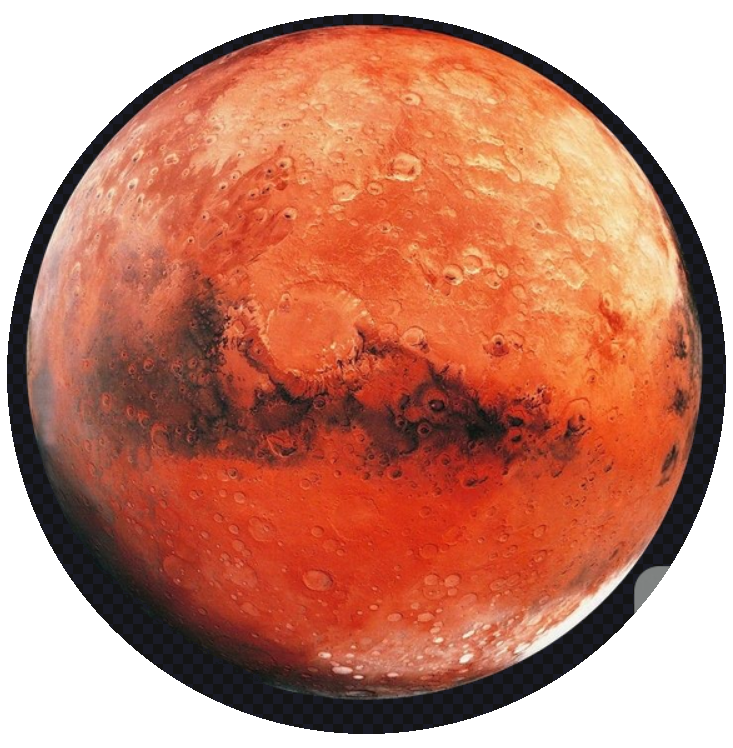
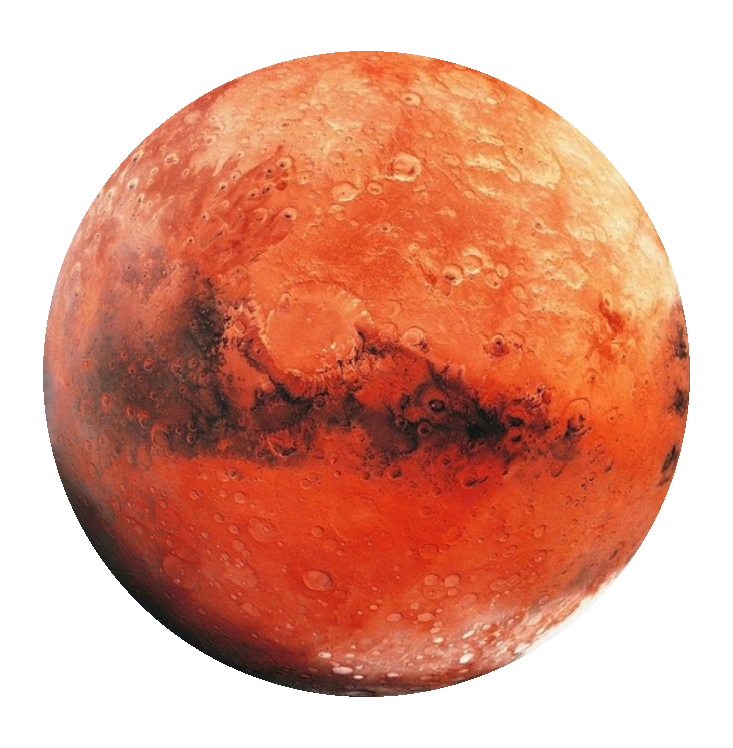
Recrop planet 3 to eliminate UI artifact, pause background animation on pause, add 3-second resume countdown

Changed region(s): [[0.0, 0.0, 0.9905, 0.984]]

diff --git a/dist/js/game.js b/dist/js/game.js
@@ -975,6 +975,7 @@ class Game {
     }
 
     handlePauseTap(vx, vy) {
+        if (this.resumeCountdown > 0) return;
         const w = this.w, h = this.h;
         const panelW = w * 0.38;
         const btnW = panelW * 0.82;
@@ -989,7 +990,7 @@ class Game {
                 this.audio.init(); this.audio.playPauseSound();
                 if (i === 0) {
                     // Resume
-                    this.state = GameState.Playing;
+                    this.resumeCountdown = 3.0;
                 } else if (i === 1) {
                     // Restart
                     this.lives = 3 + (this.extraLives || 0);
@@ -1262,9 +1263,10 @@ class Game {
                 this.pauseSelectedIndex = 0;
             }
         } else if (this.state === GameState.Paused) {
+            if (this.resumeCountdown > 0) return;
             if (code === 'Escape') {
                 this.audio.init(); this.audio.playPauseSound();
-                this.state = GameState.Playing;
+                this.resumeCountdown = 3.0;
             }
             if (code === 'ArrowUp') {
                 this.pauseSelectedIndex = (this.pauseSelectedIndex - 1 + 3) % 3;
@@ -1277,7 +1279,7 @@ class Game {
             if (code === 'Enter' || code === 'Space') {
                 this.audio.init(); this.audio.playPauseSound();
                 if (this.pauseSelectedIndex === 0) {
-                    this.state = GameState.Playing;
+                    this.resumeCountdown = 3.0;
                 } else if (this.pauseSelectedIndex === 1) {
                     this.resetBallAndPaddle(true);
                     this.initBricks();
@@ -1349,9 +1351,19 @@ class Game {
         this.updateRain(dt);
         this.updateParticles(dt);
         this.updatePowerups(dt);
-        this.updateStars(dt);
-        if (this.state === GameState.Playing || this.state === GameState.Paused || this.state === GameState.StageClear || this.state === GameState.GameOver) {
+        if (this.state !== GameState.Paused) {
+            this.updateStars(dt);
+        }
+        if (this.state === GameState.Playing || this.state === GameState.StageClear || this.state === GameState.GameOver) {
             this.updatePlanets(dt);
+        }
+        
+        if (this.state === GameState.Paused && this.resumeCountdown > 0) {
+            this.resumeCountdown -= dt;
+            if (this.resumeCountdown <= 0) {
+                this.state = GameState.Playing;
+                this.resumeCountdown = 0;
+            }
         }
         this.updateFloatingTexts(dt);
         this.updateConfetti(dt);
@@ -4034,6 +4046,19 @@ class Game {
     // ─── Pause Menu ──────────────────────────────────
 
     drawPauseMenu(ctx, w, h) {
+        if (this.resumeCountdown > 0) {
+            ctx.fillStyle = rgba(0, 0, 0, 150);
+            ctx.fillRect(0, 0, w, h);
+            
+            ctx.font = '60px PixelFont, monospace';
+            ctx.fillStyle = 'white';
+            ctx.textAlign = 'center';
+            ctx.textBaseline = 'middle';
+            const count = Math.ceil(this.resumeCountdown);
+            ctx.fillText(count.toString(), w / 2, h / 2);
+            return;
+        }
+
         // Dim background
         ctx.fillStyle = rgba(4, 6, 14, 195);
         ctx.fillRect(0, 0, w, h);

diff --git a/js/game.js b/js/game.js
@@ -975,6 +975,7 @@ class Game {
     }
 
     handlePauseTap(vx, vy) {
+        if (this.resumeCountdown > 0) return;
         const w = this.w, h = this.h;
         const panelW = w * 0.38;
         const btnW = panelW * 0.82;
@@ -989,7 +990,7 @@ class Game {
                 this.audio.init(); this.audio.playPauseSound();
                 if (i === 0) {
                     // Resume
-                    this.state = GameState.Playing;
+                    this.resumeCountdown = 3.0;
                 } else if (i === 1) {
                     // Restart
                     this.lives = 3 + (this.extraLives || 0);
@@ -1262,9 +1263,10 @@ class Game {
                 this.pauseSelectedIndex = 0;
             }
         } else if (this.state === GameState.Paused) {
+            if (this.resumeCountdown > 0) return;
             if (code === 'Escape') {
                 this.audio.init(); this.audio.playPauseSound();
-                this.state = GameState.Playing;
+                this.resumeCountdown = 3.0;
             }
             if (code === 'ArrowUp') {
                 this.pauseSelectedIndex = (this.pauseSelectedIndex - 1 + 3) % 3;
@@ -1277,7 +1279,7 @@ class Game {
             if (code === 'Enter' || code === 'Space') {
                 this.audio.init(); this.audio.playPauseSound();
                 if (this.pauseSelectedIndex === 0) {
-                    this.state = GameState.Playing;
+                    this.resumeCountdown = 3.0;
                 } else if (this.pauseSelectedIndex === 1) {
                     this.resetBallAndPaddle(true);
                     this.initBricks();
@@ -1349,9 +1351,19 @@ class Game {
         this.updateRain(dt);
         this.updateParticles(dt);
         this.updatePowerups(dt);
-        this.updateStars(dt);
-        if (this.state === GameState.Playing || this.state === GameState.Paused || this.state === GameState.StageClear || this.state === GameState.GameOver) {
+        if (this.state !== GameState.Paused) {
+            this.updateStars(dt);
+        }
+        if (this.state === GameState.Playing || this.state === GameState.StageClear || this.state === GameState.GameOver) {
             this.updatePlanets(dt);
+        }
+        
+        if (this.state === GameState.Paused && this.resumeCountdown > 0) {
+            this.resumeCountdown -= dt;
+            if (this.resumeCountdown <= 0) {
+                this.state = GameState.Playing;
+                this.resumeCountdown = 0;
+            }
         }
         this.updateFloatingTexts(dt);
         this.updateConfetti(dt);
@@ -4034,6 +4046,19 @@ class Game {
     // ─── Pause Menu ──────────────────────────────────
 
     drawPauseMenu(ctx, w, h) {
+        if (this.resumeCountdown > 0) {
+            ctx.fillStyle = rgba(0, 0, 0, 150);
+            ctx.fillRect(0, 0, w, h);
+            
+            ctx.font = '60px PixelFont, monospace';
+            ctx.fillStyle = 'white';
+            ctx.textAlign = 'center';
+            ctx.textBaseline = 'middle';
+            const count = Math.ceil(this.resumeCountdown);
+            ctx.fillText(count.toString(), w / 2, h / 2);
+            return;
+        }
+
         // Dim background
         ctx.fillStyle = rgba(4, 6, 14, 195);
         ctx.fillRect(0, 0, w, h);
